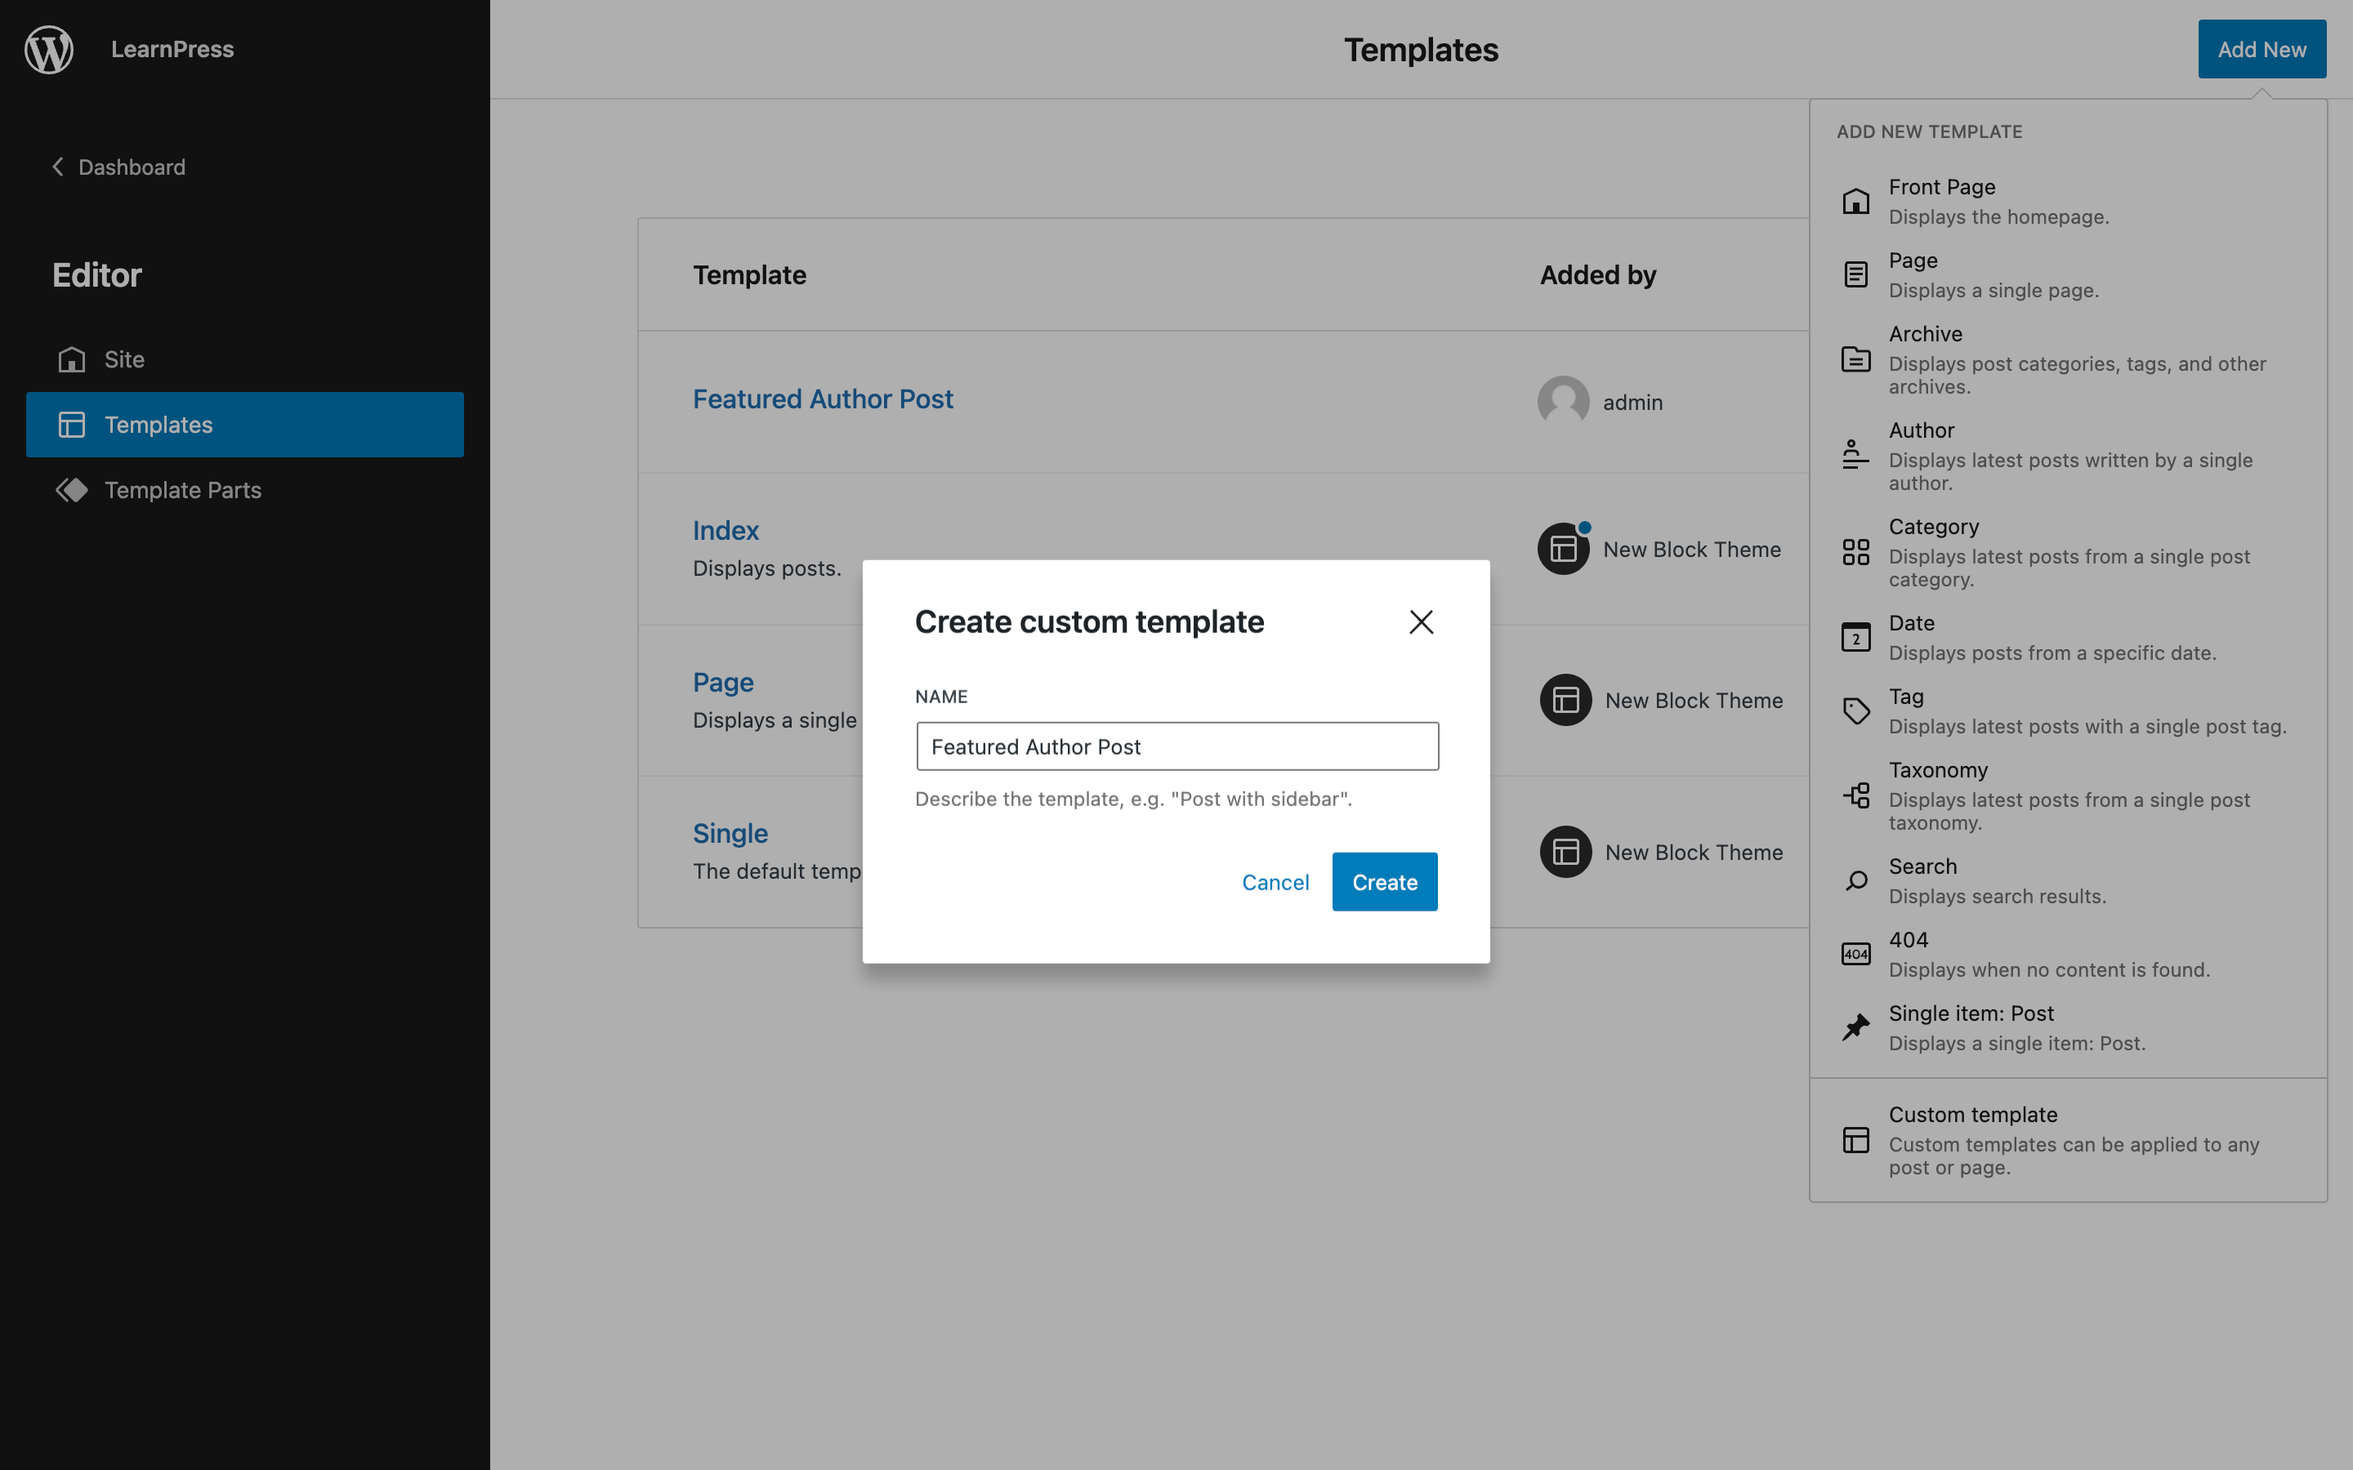
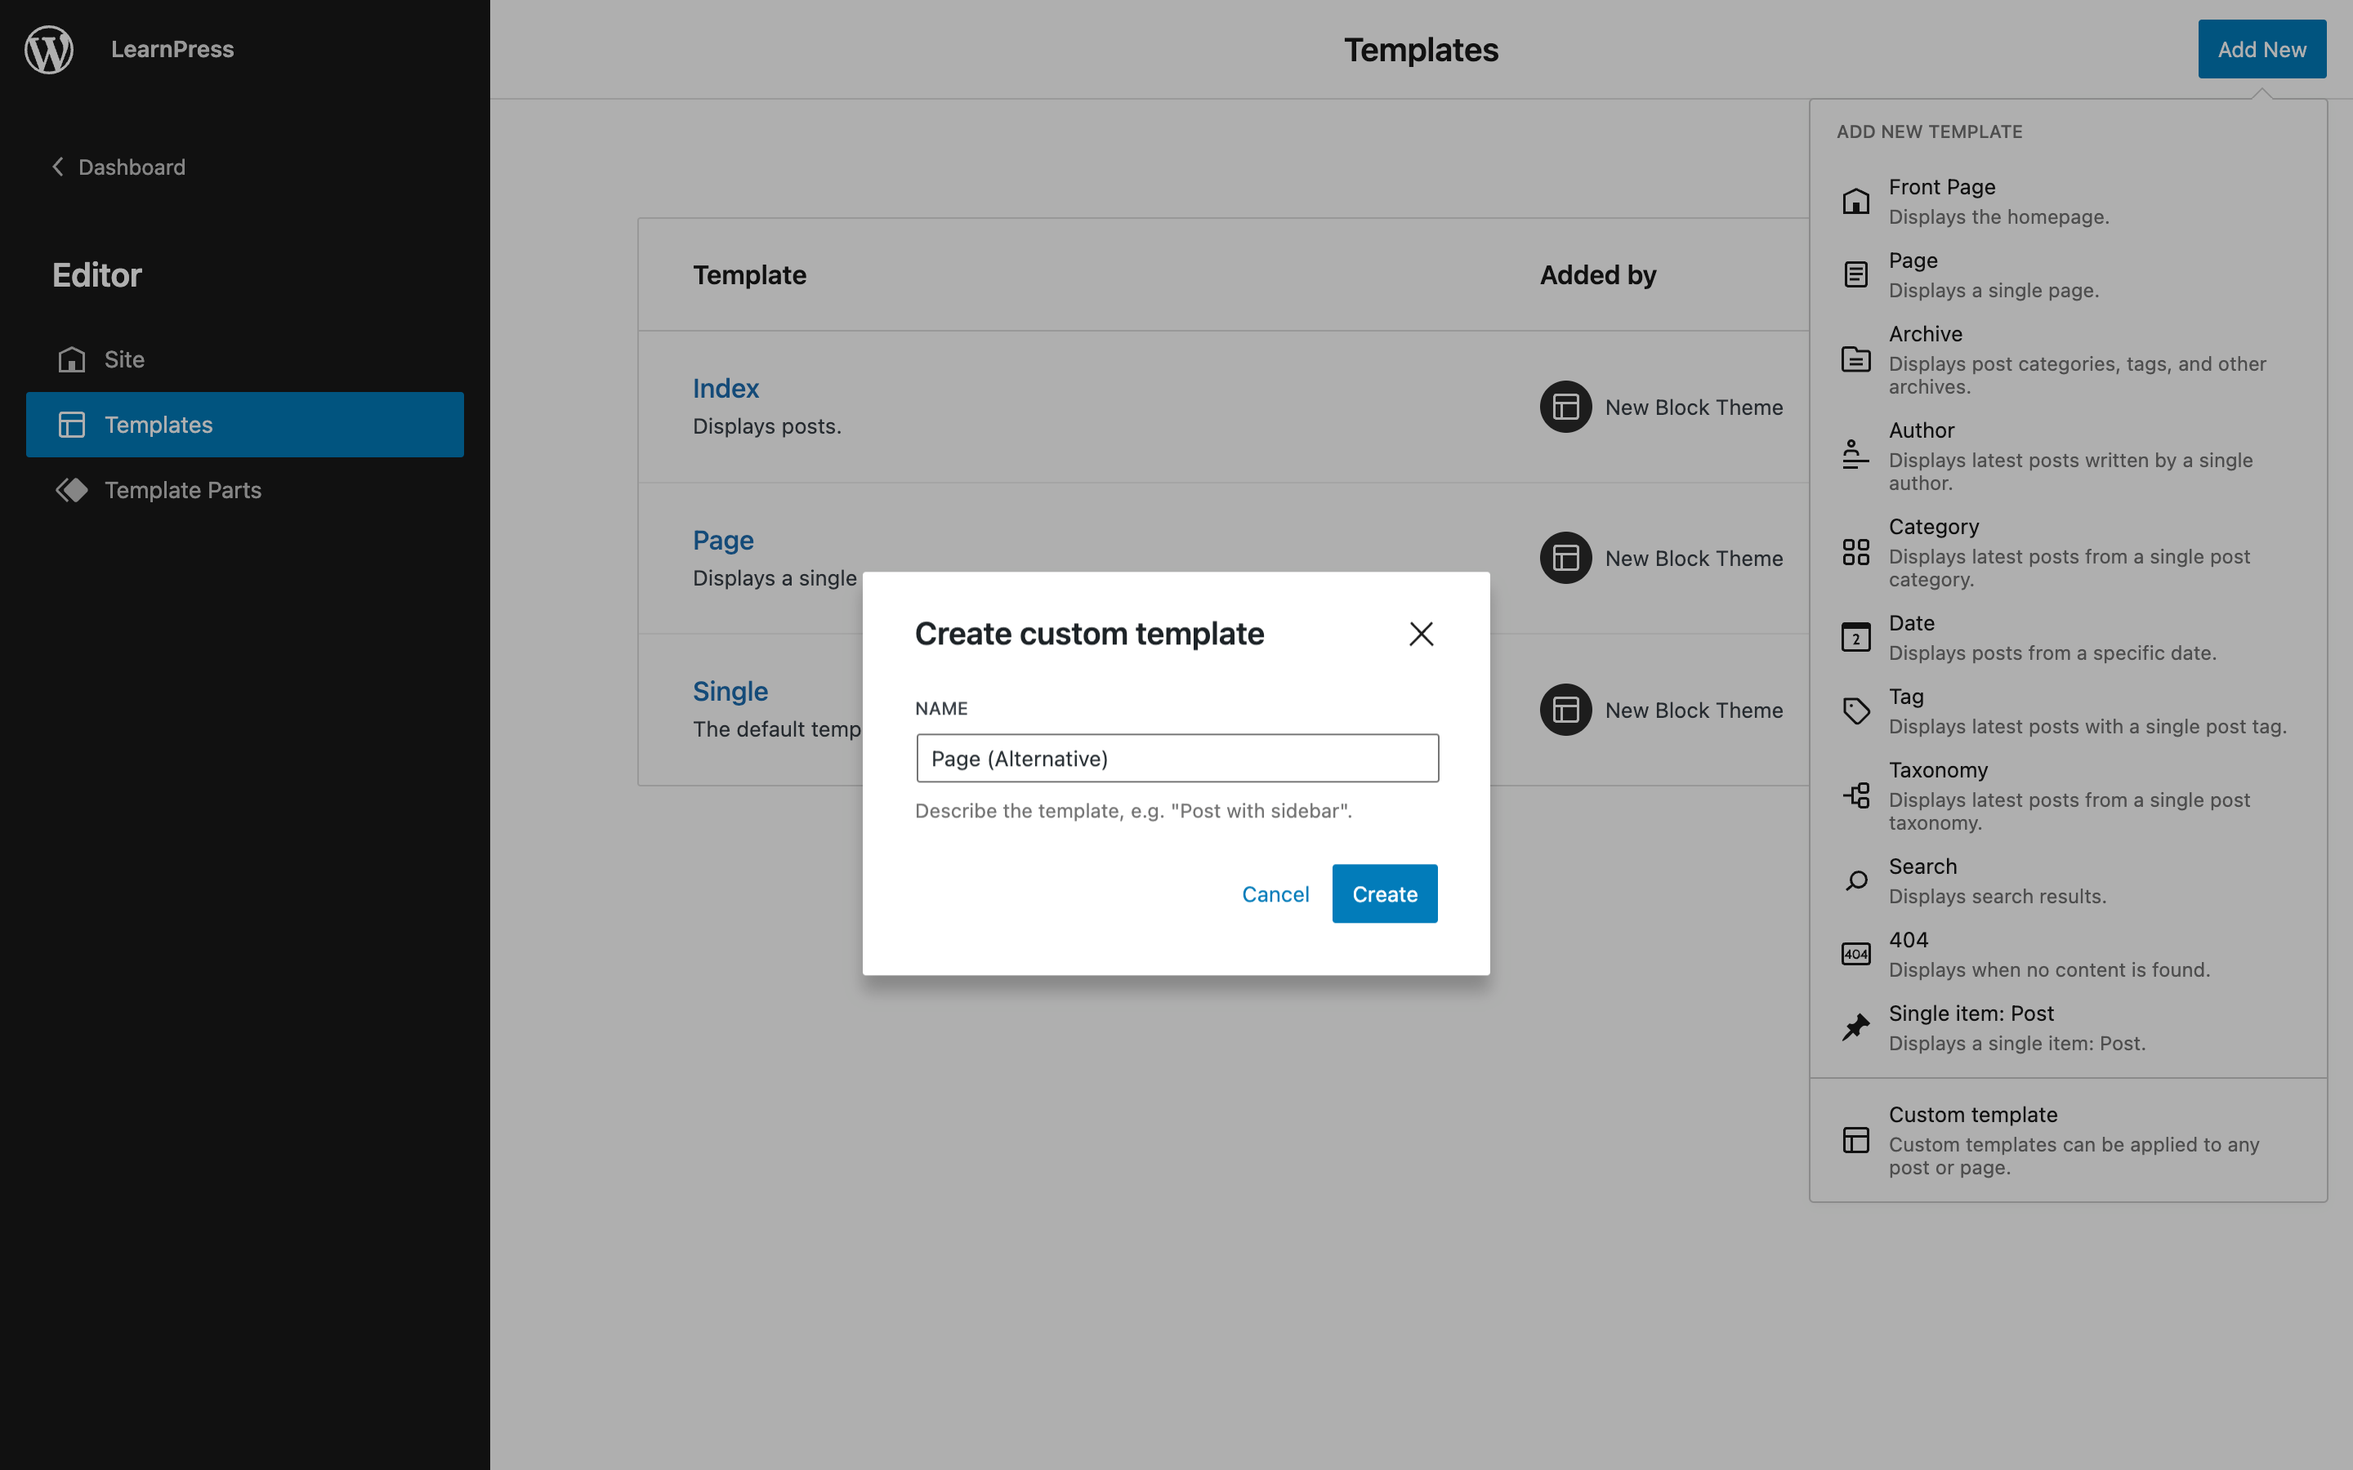
Module 4 updates

diff --git a/module-04/01-Creating-Custom-Templates-Parts.md b/module-04/01-Creating-Custom-Templates-Parts.md
@@ -6,100 +6,57 @@ During that process, you selected the specific template to be created from the l
 
 ![Adding a new template](/images/module-04/lesson-01/add-new-template.png)
 
-For most themes, this list of templates is sufficient, but what if you wanted to create a custom template, either one higher up in the hierarchy, or one that has a specific function. 
+For most themes, this list of templates is sufficient, but what if you wanted to create a custom template that has a specific function. 
 
-For example, let's say you want to create a custom post template in your theme, to be used when a featured author is writing a post. 
-
-The requirements are:
-1. The post title should be at the top of the page, and centered to the page
-2. The post author and post date should display below the title, and center justified
-3. The author's bio should be displayed below author name and date, center justified
-4. The featured image should follow the bio
-5. The post content should follow the featured image
+If you look at the Twenty Three designs, you'll see a couple of custom templates, including a page template without a featured image, and a post template without a featured image. These templates will need to be created, so that users can choose to apply them to specific pages or posts respectively. 
 
 ## Creating custom templates
 
-The WordPress 6.1 release included a new template option in the list of new templates to add, the Custom template option. As the name suggests, this can be used to create a custom template, either a specific one in the template hierarchy, or a template that can be applied to any post or page.
+The WordPress 6.1 release includes a new template option in the list of new templates to add, the **Custom template** option. As the name suggests, this can be used to create a custom template that can be applied to any post or page.
 
-As the Featured Author template will only be applied on a per-post basis, it doesn't need to be created to match any specific template in the hierarchy. For now you can create the template, and then apply it to a specific post.
+![Adding a new template](/images/module-04/lesson-01/add-new-custom-template.png)
 
-> **Do** Create the Featured Author Post template
+Using this option, you can now create and edit your alternative page and post templates.
+
+> **Do** Create the alternative page template
 > 1. Navigate to the list of templates in the editor
-> 2. Click the "Add New" button
-> 3. Select "Custom template" from the list of available templates
-> 4. Give the template a name - "Featured Author Post"
+> 2. Click the **Add New** button
+> 3. Select **Custom template** from the list of available templates
+> 4. Give the template a name - "Page (Alternative)"
 
-As before, when you create the new template, it auto populates it with the same content from the index template, and redirects you to the template editor.
+![Adding a new template](/images/module-04/lesson-01/add-new-custom-page-template.png)
 
-> **Do** Edit the new template to match the theme requirements
-> 1. 
+As before, when you create the new template, it autopopulates it with some content, in this case it uses the content from the **Page** template.
 
-> **Do** Apply the template to a specific post
-> 1.
+![Adding a new template](/images/module-04/lesson-01/added-new-custom-page-template.png)
 
-### Export the custom template
+You can now edit the alternative page template in the editor, in this case, by removing the featured image, and saving the template
 
-Either manually or using Create Block Theme
-
-### Register the template in theme.json
-
-```json
-"customTemplates": [
-		{
-			"name": "featured-author-template",
-			"title": "Featured Author Template",
-			"postTypes": [
-				"post"
-			]
-		}
-	],
-```
-
-## Creating specific templates
-
-Create a template for a specific post by slug
-
-https://developer.wordpress.org/themes/basics/template-hierarchy/#single-post
-
-> **Do** Create a new custom post template for the post by slug
-> 1. Create the template
-> 2. Edit the template
-> 3. Export the template, and rename it to match the required template name
-> 4. Register the template in theme.json
+> **Do** Create the alternative post template, using the same steps for the alternative page template.
 
 ## Creating custom template parts
 
-> **Do** Create a new custom template part for comments
-> 
+Just as you can create custom templates to be used for specific purposes, you can create custom template parts. Headers and footers are commonly reusable template parts, but you don't have to limit yourself to these two options.
 
-Export
-Register in theme.json
+For example, things like post meta group you created for the single template in the previous module on Creating Primary Templates is perfect to create as a template part. You can then reuse the part in any post related templates you create.
 
-```json
-	"templateParts": [
-		{
-			"area": "general",
-			"name": "post-comments",
-			"title": "Post Comments Part"
-		},
-	],
-```
+Depending on how you're developing your theme, you can either take blocks, or collections of blocks, from an existing template and create a template part from them, or you can create a template part from scratch.
 
-While we are here, let's register the header and footer as well
+Either way, the main difference between creating a header or footer template part, or a custom template part, is that you choose the **General** area when creating a custom template part.
 
-```json
-		{
-			"area": "header",
-			"name": "header",
-			"title": "Header Part"
-		}, 
-		{
-			"area": "footer",
-			"name": "footer",
-			"title": "Footer Part"
-		}
-```
+## Creating a custom template part from a template
 
-> **Do** Add the template parts to a template
-> 1. In the Site Editor
-> 2. Manually
+To create a template part from an existing template, edit a template, select the block or group of blocks you want to turn into a part, and use the *Create template part** option.
+
+> **Do** Create a new custom template part for post meta from the single post template
+> 1. Edit the Single Template
+> 2. In the List view, select the post meta group
+> 3. Click on the Group options and select **Create template part**
+> 4. Give the template part a name - "Post Meta"
+
+![Adding a new template part](/images/module-04/lesson-01/create-template-part.gif)
+
+The template part will be created, and it will be added to the template in the editor. If you view your list of template parts, you'll see the new template part in the list
+
+![Template part list](/images/module-04/lesson-01/template-part-list.png)
+

diff --git a/module-04/02-Exporting-Custom-Templates-Template-Parts.md b/module-04/02-Exporting-Custom-Templates-Template-Parts.md
@@ -1,0 +1,115 @@
+# Exporting Custom Templates and Template Parts
+
+The big difference between the Primary (and Secondary) Templates and the Header and Footer template parts, and any custom templates or template parts you create, is how you export the code to theme files. 
+
+The main reason for this is that custom templates and template parts do not have specific, predefined names within the Template Hierarchy system. For this reason, it's not possible to automatically export the code to a specific file name, as it might be with a page, post, or single template, or a header or footer template part.
+
+Instead, you need to manually export the code to a file with a specific name, and then register your custom templates and template parts in the theme.json file.
+
+## Exporting Custom Templates
+
+To start, export the alternative page template to a file. This process will follow the same process as described in the Manually exporting templates section of the Exporting theme files lesson from Module 01.
+
+To manually export the alternative page template, navigate to the template and switch to the Code Editor view, then copy the block markup code into a file in the `templates` directory. The file name is arbitrary, but it should be descriptive of the template. For this example, call the file `page-alternative.html`.
+
+> **Do:**
+> 2. Create the `page-alternative.html` file in the `templates` directory
+> 3. Navigate to the template and switch to the Code Editor view
+> 4. Copy the block markup from the Code Editor View
+> 5. Navigate to the `templates` directory of your theme, and open the `page-alternative.html` file in a text editor
+> 6. Paste the block markup into the `page-alternative.html` file, and save the file.
+
+## Exporting Custom Templates using Create Block Theme
+
+If you're using Create Block Theme, you can export custom templates using the `Overwrite New Block Theme` option. 
+
+This option will create the file in the templates directory, with the following filename structure, where {template-slug} is a "slugified" version of the template name you specified when you create the template:
+
+```
+wp-custom-template-{template-slug}.html
+```
+
+> **Note:** the term slugified means that the template name is converted to lowercase, any non-alphabetical characters are removed, and any spaces are replaced with hyphens.
+
+So if you create a template called `Alternative Page`, the file will be named `wp-custom-template-alternative-page.html`.
+
+## Registering Custom Templates
+
+Whether you export manually, or use Create Block Theme, your final step is to register the custom template in the theme.json file. To do so, you add a new top level item called `customTemplates` to the file, and then add an object for each custom template.
+
+```json
+"customTemplates": [
+		{
+			
+		}
+	],
+```
+
+> **Note:** Note the use of the square brackets and the curly brackets here. The square brackets indicates that this is json array, and the curly brackets indicate that this is a json object. You can have multiple objects in the array, one for each custom template.
+
+Then you can register your custom template, giving it a name, a list of postTypes, and a title:
+
+```json 
+"customTemplates": [
+		{
+			"name": "page-alternative",
+			"postTypes": [
+				"page"
+			],
+			"title": "Page Alternative"
+		}
+	],
+```
+
+> **Note:** The name of the custom template is the same as the file name, minus the `.html` extension. The postTypes array is the list of posts types that this template can be applied to. Because this is a page template, you only need to specify the `page` post type. The title is the name of the template as it will appear in the editor.
+
+## A little housekeeping
+
+If you switch back to the Site Editor, and refresh the Templates list, you'll see there are now two Page Alternative templates listed. 
+
+![Duplicate Templates](/images/module-04/lesson-02/updated-custom-templates-list.png)
+
+One is marked as added by your user, and the other as added by the theme. The one added by the user was created soley in the editor, and is therefore only stored in the database. The other is the file you just created and registered. You can therefore delete the one added by the user.
+
+To practice this process, export the post alternative template you created in the previous lesson. Follow the same steps as you did for the alternative page
+
+1. Export the template to the relevant template file
+2. Register the template in theme.json
+4. Delete the template added by the user
+
+Remember to add the new custom template to the `customTemplates` array in the theme.json file, using a comma between each custom template object. Remember to also set the correct post type for the alternative post template
+
+```json 
+"customTemplates": [
+		{
+			"name": "page-alternative",
+			"postTypes": [
+				"page"
+			],
+			"title": "Page Alternative"
+		}, 
+		{
+			"name": "post-alternative",
+			"postTypes": [
+				"post"
+			],
+			"title": "Post Alternative"
+		},
+	],
+```
+
+## Exporting Custom Template Parts
+
+The general process to export custom template parts is the same as for templates, with the only really difference being how they are registered in `theme.json`.
+
+Instead of using the `customTemplates` objects in `theme.json`, you use the `templateParts` object. This object has a similar structure to the `customTemplates` object, but instead of `postTypes`, you specify a template part `area` of "general".
+
+```json
+"templateParts": [
+    {
+        "area": "general",
+        "name": "post-meta",
+        "title": "Post Meta"
+    },
+],
+```

diff --git a/module-04/03-Creating-Variable-Templates.md b/module-04/03-Creating-Variable-Templates.md
@@ -1,0 +1,22 @@
+## Creating specific templates for the Template Hierarchy
+
+Besides the primary and secondary templates, the WordPress Template Hierarchy supports templates for specific types of content types called variable templates. 
+
+These templates are used in specific cases, for example, all posts by a specific author, or all posts in a specific category.
+
+You can create variable templates using the Site Editor in the same way as described in the previous lesson, making sure to create the filename to match the name that the template hierarchy requires.
+
+For example, if you wanted to create a template for all posts by a specific author, you would create a template with the filename `author-{slug}.html` where `{slug}` is the nicename, or nickname, of the author.
+
+Then, you can register the template in theme.json in the usual way:
+
+```json
+"customTemplates": [
+		{
+			"name": "author-johndoe",
+			"title": "Author John Doe"
+		}
+	],
+```
+
+You don't need to specify the postTypes item, because this template will only be used when displaying the post archive by the specified author.
